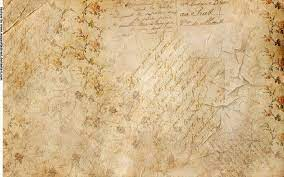
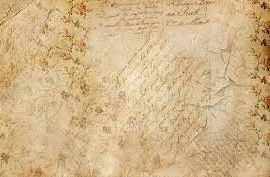
updated css

diff --git a/src/styles.css b/src/styles.css
@@ -1,6 +1,6 @@
 body{
     background-color: #f8f0e3; 
-    background-image: url("cover.png");
+    background-image: url("paper-texture.png");
     background-size: cover;
      font-family: 'Times New Roman', Times, serif;
 }
@@ -72,7 +72,7 @@ font-size: 16px;
 
 .poem{
     font-size: 16px;
-    background-image: url("paper-texture.png");
+    background-image: url("paper.png");
     background-size: cover;
     padding: 20px;
     line-height: 24px;
